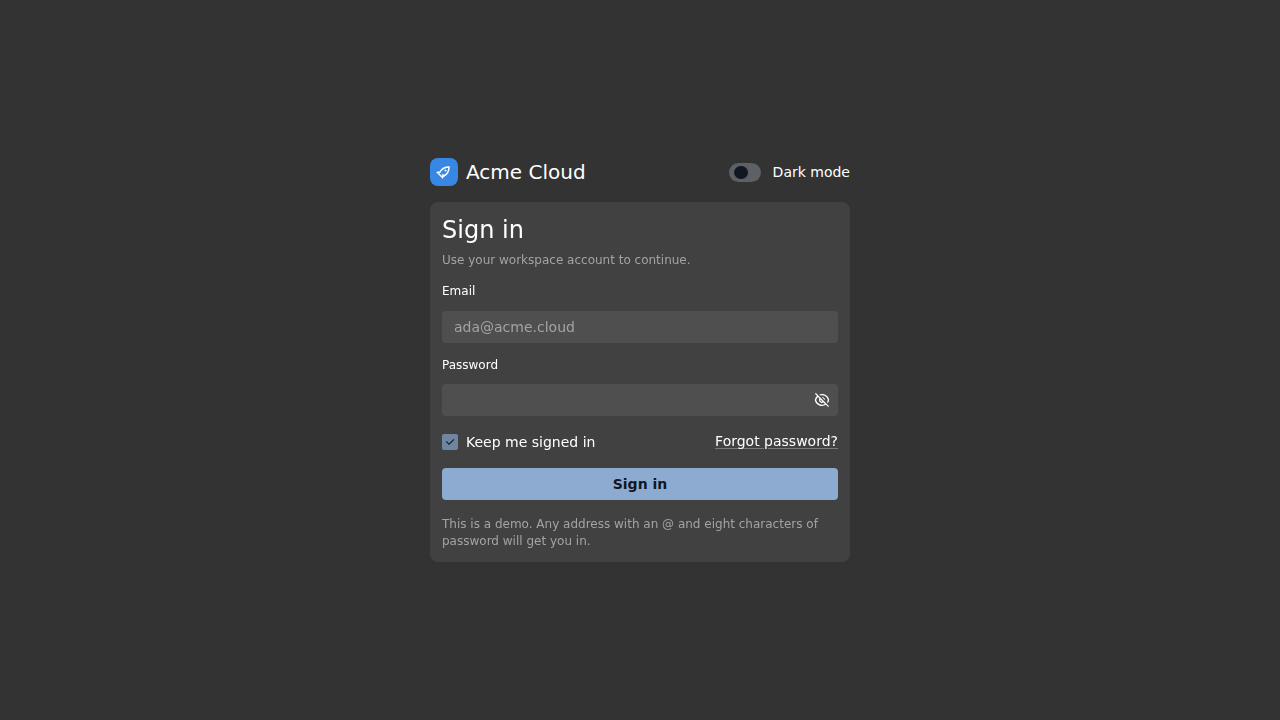
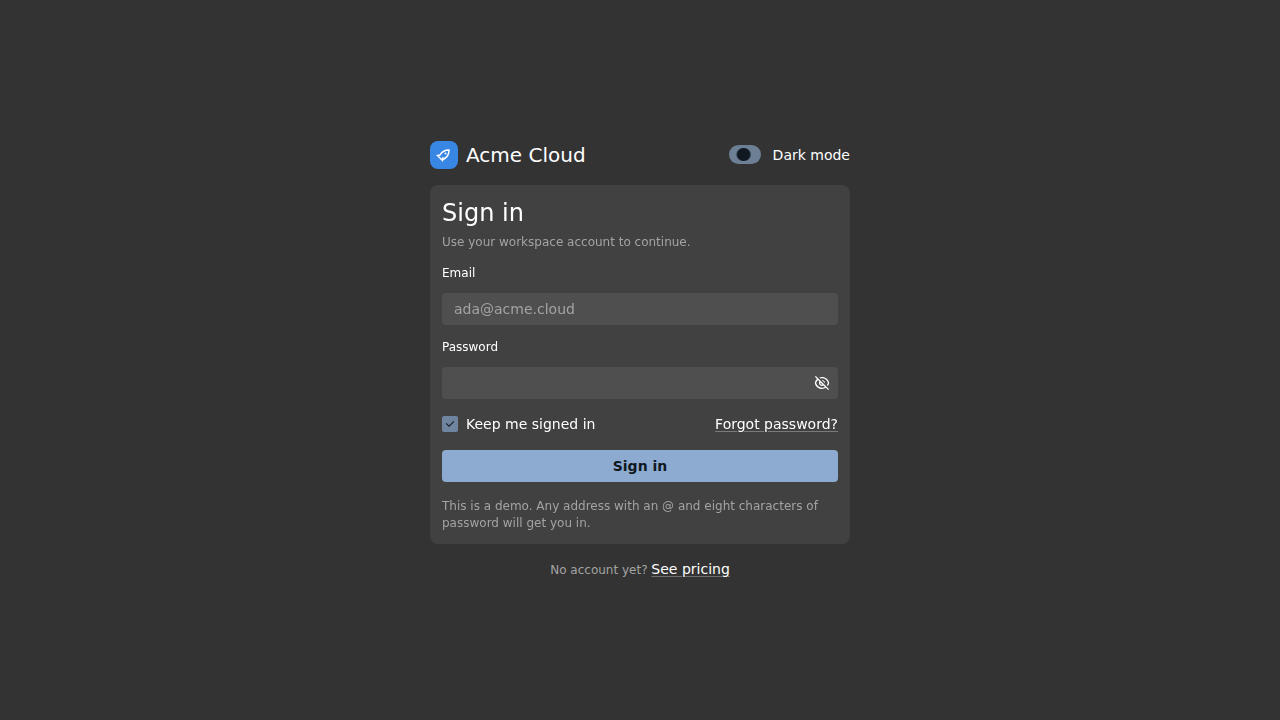
Add a pricing page (#18)
The last of the demo pages, and the only marketing-shaped one: three
plans on a card grid, the middle one badged and given the primary
button, and a yearly switch that recomputes the prices at 20 percent off
rather than swapping in a second set of numbers. The free plan reads
"Free" in both modes.

Like sign-in it renders outside the app shell — no sidebar, just the
brand, the theme switch and a way in. Sign-in now links to it, and every
plan links back to sign-in, so neither page is a dead end.

Also fixes a flake in the catalog sort test. The column header is a
toggle, so the existing swallowed-press retry would have undone the
first click; clickUntilAttribute checks aria-sort before pressing again.

diff --git a/src/components/pages/PricingPage.tsx b/src/components/pages/PricingPage.tsx
@@ -1,0 +1,149 @@
+import { useState } from 'react';
+import {
+  Badge,
+  ButtonLink,
+  Card,
+  CardBody,
+  CardHeader,
+  Flex,
+  Switch,
+  Text,
+} from '@backstage/ui';
+import { ThemeSwitch } from '../dashboard/ThemeSwitch';
+import { withBase } from '../dashboard/base';
+
+interface Plan {
+  id: string;
+  name: string;
+  monthly: number;
+  blurb: string;
+  features: string[];
+  featured?: boolean;
+}
+
+const PLANS: Plan[] = [
+  {
+    id: 'starter',
+    name: 'Starter',
+    monthly: 0,
+    blurb: 'For a team finding its feet.',
+    features: ['Up to 5 services', 'Staging deploys', 'Community support', '7-day deploy history'],
+  },
+  {
+    id: 'team',
+    name: 'Team',
+    monthly: 40,
+    blurb: 'For teams shipping every day.',
+    features: ['Unlimited services', 'Production approvals', 'On-call routing', '90-day deploy history'],
+    featured: true,
+  },
+  {
+    id: 'enterprise',
+    name: 'Enterprise',
+    monthly: 120,
+    blurb: 'For a platform team supporting many teams.',
+    features: ['Everything in Team', 'SSO and SCIM', 'Audit log export', 'Named support engineer'],
+  },
+];
+
+export function PricingPage() {
+  const [yearly, setYearly] = useState(false);
+
+  const price = (plan: Plan) => {
+    if (plan.monthly === 0) return 'Free';
+    const value = yearly ? Math.round(plan.monthly * 12 * 0.8) : plan.monthly;
+    return `$${value}`;
+  };
+
+  return (
+    <div className="marketing">
+      <Flex align="center" justify="between" mb="6">
+        <Flex align="center" gap="2">
+          <span className="sidebar-brand-mark" aria-hidden="true">
+            <svg width="16" height="16" viewBox="0 0 16 16" fill="none" stroke="currentColor" strokeWidth="1.5">
+              <path d="M8 12c3.5-2 5-5.5 5-9-3.5 0-7 1.5-9 5l-2.5.5L4 11l2.5 2.5L7 11z" />
+              <circle cx="9.5" cy="6.5" r="1" fill="currentColor" stroke="none" />
+            </svg>
+          </span>
+          <Text variant="title-x-small" as="span">
+            Acme Cloud
+          </Text>
+        </Flex>
+        <Flex align="center" gap="4">
+          <ThemeSwitch />
+          <ButtonLink href={withBase('/signin')} variant="secondary" size="small">
+            Sign in
+          </ButtonLink>
+        </Flex>
+      </Flex>
+
+      <Flex direction="column" gap="3" align="center" mb="6">
+        <Text variant="title-large" as="h1">
+          Pricing
+        </Text>
+        <Text variant="body-large" color="secondary">
+          Per developer, per month. Cancel whenever.
+        </Text>
+        <Flex align="center" gap="3">
+          <Switch
+            label="Bill yearly (save 20%)"
+            isSelected={yearly}
+            onChange={setYearly}
+          />
+        </Flex>
+      </Flex>
+
+      <div className="pricing-grid">
+        {PLANS.map((plan) => (
+          <Card key={plan.id}>
+            <CardHeader>
+              <Flex align="center" justify="between" gap="2">
+                <Text variant="title-x-small" as="h2">
+                  {plan.name}
+                </Text>
+                {plan.featured && <Badge>Most popular</Badge>}
+              </Flex>
+            </CardHeader>
+            <CardBody>
+              <Flex direction="column" gap="4">
+                <Flex direction="column" gap="1">
+                  <span className="price">{price(plan)}</span>
+                  <Text variant="body-small" color="secondary">
+                    {plan.monthly === 0
+                      ? 'No card needed'
+                      : yearly
+                        ? 'per developer, per year'
+                        : 'per developer, per month'}
+                  </Text>
+                </Flex>
+                <Text color="secondary">{plan.blurb}</Text>
+                <ul className="feature-list">
+                  {plan.features.map((feature) => (
+                    <li key={feature}>
+                      <svg width="14" height="14" viewBox="0 0 14 14" fill="none" stroke="currentColor" strokeWidth="2" aria-hidden="true">
+                        <path d="M2.5 7.5l3 3 6-7" />
+                      </svg>
+                      {feature}
+                    </li>
+                  ))}
+                </ul>
+                <ButtonLink
+                  href={withBase('/signin')}
+                  variant={plan.featured ? 'primary' : 'secondary'}
+                >
+                  {plan.monthly === 0 ? 'Start free' : `Choose ${plan.name}`}
+                </ButtonLink>
+              </Flex>
+            </CardBody>
+          </Card>
+        ))}
+      </div>
+
+      <Flex justify="center" mt="6">
+        <Text variant="body-small" color="secondary">
+          Prices are illustrative. This is a UI demo, not a product.
+        </Text>
+      </Flex>
+    </div>
+  );
+}

diff --git a/tests/pricing.spec.ts b/tests/pricing.spec.ts
@@ -1,0 +1,72 @@
+import { test, expect } from '@playwright/test';
+import { settle, useDarkTheme, waitForHydration } from './helpers';
+
+test.describe('Pricing', () => {
+  test('stands outside the app shell', async ({ page }) => {
+    await page.goto('/pricing');
+    await waitForHydration(page);
+
+    await expect(page.getByRole('heading', { name: 'Pricing' })).toBeVisible();
+    await expect(
+      page.getByRole('listbox', { name: 'Main navigation' }),
+    ).toHaveCount(0);
+    await expect(page.getByRole('link', { name: 'Sign in' })).toBeVisible();
+  });
+
+  test('every plan sends you to sign in', async ({ page }) => {
+    await page.goto('/pricing');
+    await waitForHydration(page);
+
+    for (const name of ['Start free', 'Choose Team', 'Choose Enterprise']) {
+      await expect(page.getByRole('link', { name })).toHaveAttribute(
+        'href',
+        /\/signin$/,
+      );
+    }
+  });
+
+  test('lists three plans with the popular one marked', async ({ page }) => {
+    await page.goto('/pricing');
+    await waitForHydration(page);
+
+    for (const plan of ['Starter', 'Team', 'Enterprise']) {
+      await expect(
+        page.getByRole('heading', { name: plan, exact: true }),
+      ).toBeVisible();
+    }
+    await expect(page.getByText('Most popular')).toBeVisible();
+    // the starter plan costs nothing — "Free" also appears on its button,
+    // so match the price element rather than the text.
+    await expect(page.locator('.price', { hasText: /^Free$/ })).toBeVisible();
+  });
+
+  test('the yearly toggle changes the prices', async ({ page }) => {
+    await page.goto('/pricing');
+    await waitForHydration(page);
+
+    await expect(page.locator('.price', { hasText: '$40' })).toBeVisible();
+    await expect(page.getByText('per developer, per month').first()).toBeVisible();
+
+    await page.locator('label', { hasText: 'Bill yearly' }).click();
+
+    // 40 * 12 with 20% off
+    await expect(page.locator('.price', { hasText: '$384' })).toBeVisible();
+    await expect(page.getByText('per developer, per year').first()).toBeVisible();
+    // the free plan stays free
+    await expect(page.locator('.price', { hasText: /^Free$/ })).toBeVisible();
+  });
+
+  test('screenshots', async ({ page }) => {
+    await page.goto('/pricing');
+    await settle(page);
+    await page.screenshot({ path: 'screenshots/pricing-light.png', fullPage: true });
+  });
+
+  test('dark screenshot', async ({ page }) => {
+    await useDarkTheme(page);
+    await page.goto('/pricing');
+    await settle(page);
+    await expect(page.locator('html')).toHaveAttribute('data-theme-mode', 'dark');
+    await page.screenshot({ path: 'screenshots/pricing-dark.png', fullPage: true });
+  });
+});

diff --git a/tests/catalog.spec.ts b/tests/catalog.spec.ts
@@ -1,5 +1,11 @@
 import { test, expect } from '@playwright/test';
-import { clickAndNavigate, settle, useDarkTheme, waitForHydration } from './helpers';
+import {
+  clickAndNavigate,
+  clickUntilAttribute,
+  settle,
+  useDarkTheme,
+  waitForHydration,
+} from './helpers';
 
 // Backstage UI's Table does not forward aria-label, so the grid is always
 // labelled "Data table"; there is only one on this page.
@@ -31,7 +37,9 @@ test.describe('Catalog table', () => {
     const firstCell = () => rows(page).nth(1).getByRole('rowheader');
     await expect(firstCell()).toHaveText(/alert-router/);
 
-    await page.getByRole('columnheader', { name: 'Service' }).click();
+    const header = page.getByRole('columnheader', { name: 'Service' });
+    await expect(header).toHaveAttribute('aria-sort', 'ascending');
+    await clickUntilAttribute(header, 'aria-sort', 'descending');
     await expect(firstCell()).toHaveText(/webhook-dispatcher/);
   });
 

diff --git a/tests/helpers.ts b/tests/helpers.ts
@@ -46,6 +46,26 @@ export async function clickAndNavigate(
   }).toPass({ timeout: 20000 });
 }
 
+/**
+ * Clicks something react-aria owns until an attribute reaches the value the
+ * click is supposed to produce.
+ *
+ * Same swallowed-press problem as `clickAndNavigate`, but for controls that
+ * toggle: a blind retry would undo the first click, so this checks the
+ * attribute before pressing again.
+ */
+export async function clickUntilAttribute(
+  target: Locator,
+  attribute: string,
+  value: string,
+) {
+  await expect(async () => {
+    if ((await target.getAttribute(attribute)) === value) return;
+    await target.click();
+    await expect(target).toHaveAttribute(attribute, value, { timeout: 2000 });
+  }).toPass({ timeout: 20000 });
+}
+
 /** Seeds the persisted theme so the page renders dark from first paint. */
 export async function useDarkTheme(page: Page) {
   await page.addInitScript(() =>

diff --git a/src/styles/dashboard.css b/src/styles/dashboard.css
@@ -819,3 +819,47 @@
   font-size: 14px;
   color: var(--bui-fg-primary);
 }
+
+/* ---- Marketing (pricing) ---- */
+
+.marketing {
+  max-width: 1040px;
+  margin: 0 auto;
+  padding: 24px 16px 48px;
+}
+
+.pricing-grid {
+  display: grid;
+  grid-template-columns: repeat(auto-fit, minmax(260px, 1fr));
+  gap: 16px;
+  align-items: start;
+}
+
+.price {
+  font-size: 36px;
+  font-weight: 700;
+  line-height: 1;
+  color: var(--bui-fg-primary);
+}
+
+.feature-list {
+  margin: 0;
+  padding: 0;
+  list-style: none;
+  display: flex;
+  flex-direction: column;
+  gap: 8px;
+}
+
+.feature-list li {
+  display: flex;
+  align-items: center;
+  gap: 8px;
+  font-size: 14px;
+  color: var(--bui-fg-secondary);
+}
+
+.feature-list svg {
+  color: var(--status-good);
+  flex: none;
+}

diff --git a/tests/signin.spec.ts b/tests/signin.spec.ts
@@ -13,6 +13,11 @@ test.describe('Sign in', () => {
     ).toHaveCount(0);
     // but the theme toggle still works here
     await expect(page.getByRole('switch', { name: 'Dark mode' })).toBeVisible();
+    // the only way into the pricing page from inside the demo
+    await expect(page.getByRole('link', { name: 'See pricing' })).toHaveAttribute(
+      'href',
+      /\/pricing$/,
+    );
   });
 
   test('validates the email before the password', async ({ page }) => {

diff --git a/src/components/pages/SignInPage.tsx b/src/components/pages/SignInPage.tsx
@@ -104,6 +104,12 @@ export function SignInPage() {
           </form>
         </CardBody>
       </Card>
+
+      <Flex justify="center" mt="4">
+        <Text variant="body-small" color="secondary">
+          No account yet? <Link href={withBase('/pricing')}>See pricing</Link>
+        </Text>
+      </Flex>
     </>
   );
 }
